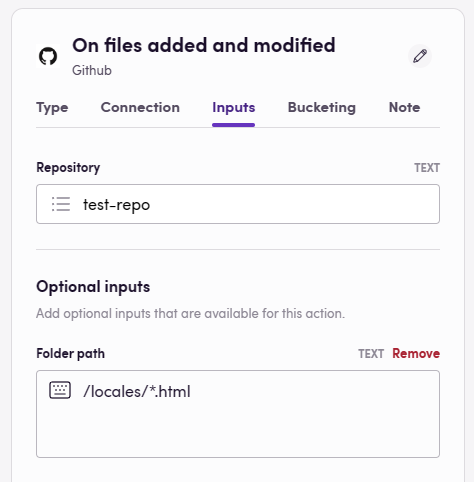
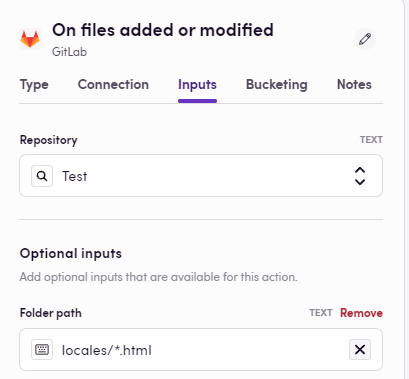
Docs update

diff --git a/README.md b/README.md
@@ -26,17 +26,6 @@ Before you can connect you need to make sure that:
 
 ![1705402013379](image/README/1705402013379.png)
 
-## Setting up events
-
-In order to respond to events happening in GitLab, you need to also install our app on your repository.
-
-1. Got to the [Blackbird app page](https://GitLab.com/apps/blackbird-io) on GitLab.
-2. Click _Configure_
-3. Select the organization where you want to install Blackbird.
-4. Select either _All repositories_ or _Only select repositories_ if you want to limit the repositories Blackbird has access to.
-
-![1705402262423](image/README/1705402262423.png)
-
 ## Actions
 
 ### Repositories
@@ -45,30 +34,25 @@ In order to respond to events happening in GitLab, you need to also install our 
 - **Create new repository**
 - **Get repository**
 - **Get repository issues**
-- **List all repository content**
 - **List repository folder content**
 
 ### Branches
 
 - **List branches**
 - **Get branch**
-- **Merge branch**
 
 ### Commits
 
 - **List commits**
 - **Get commit**
 
-### Pull requests
+### Merge requests
 
-- **Create pull request**
-- **List pull requests**
-- **List pull request commits**
-- **Get pull request**
-- **Get repository pull requests**
-- **Is pull request merged**
-- **List pull request files**
-- **Merge pull request**
+- **Create merge request**
+- **List merge requests**
+- **Get merge request**
+- **Get repository merge requests**
+- **Complete merge request**
 
 ### Files
 
@@ -114,10 +98,6 @@ For example: when you want to create an event that triggers only when .html file
 The following bird creates a new memoQ project whenever files are updated or added to a specific folder in a GitLab repository.
 
 ![1705408481146](image/README/1705408481146.png)
-
-## Missing features
-
-We have the ability to trigger on any event specified in [this list](https://docs.GitLab.com/en/webhooks/webhook-events-and-payloads). Feel free to request these with us.
 
 ## Feedback
 
